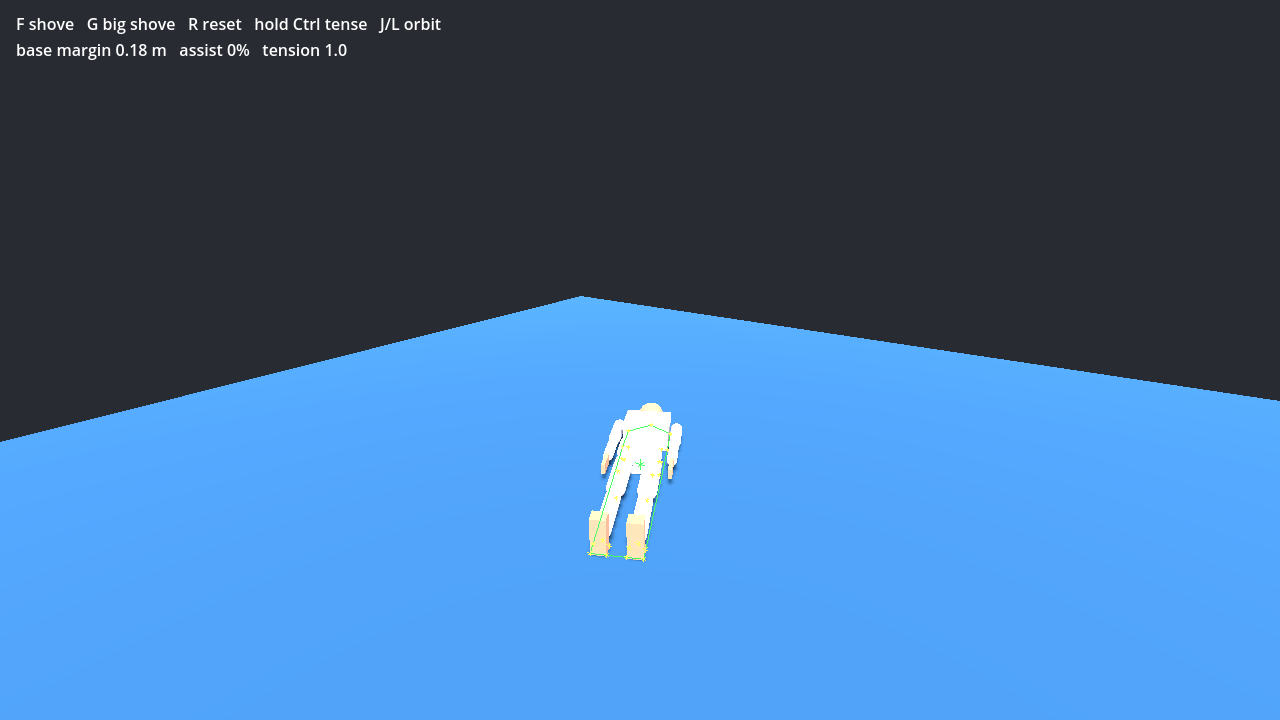
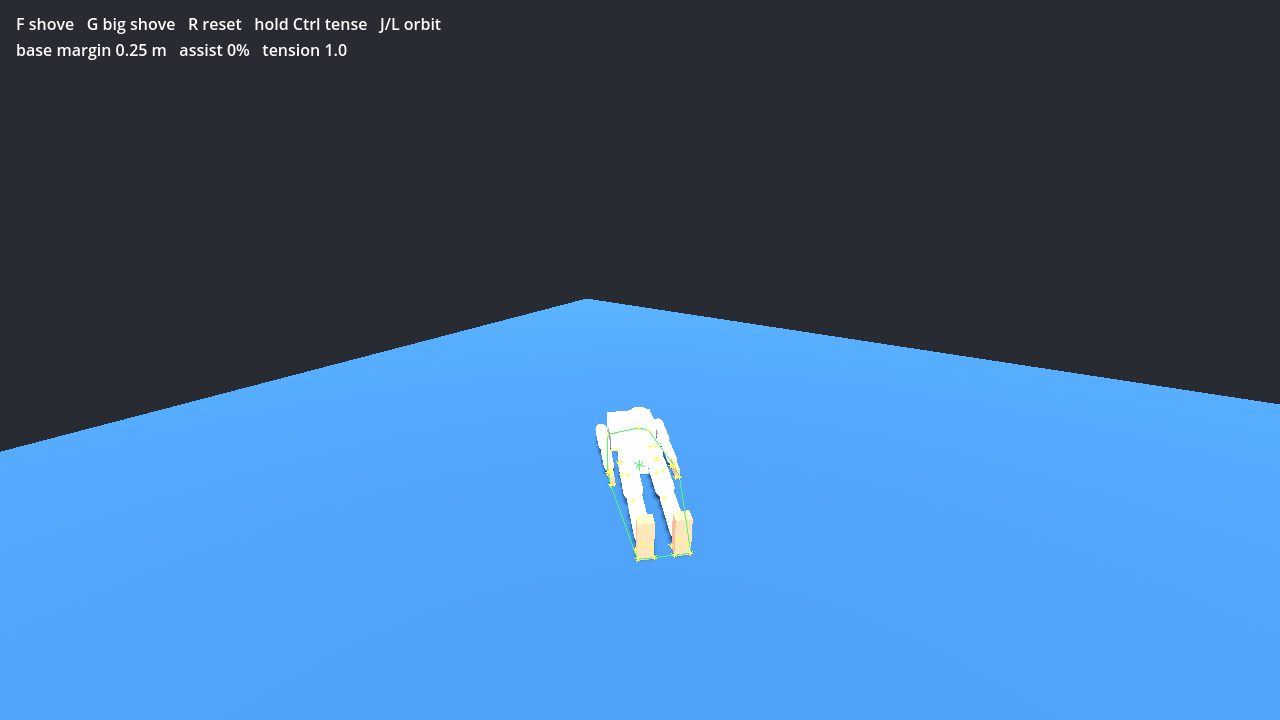
Make the fighter go floppy when it falls
Once the balance assist gives up, joint motor strength fades to
floppy_strength (12%) at go_limp_rate, so the fighter flops instead of
falling like a stiff plank. Adds a headless check for it.

Claude-Session: https://claude.ai/code/session_01Jy71bxqx9RNqiZaQPBMJXq

diff --git a/README.md b/README.md
@@ -15,6 +15,8 @@ Godot 4.4+ with Jolt physics at 120 ticks per second.
 | Ctrl (hold) | Tense up: joint motors get 1.8x stronger |
 | J / L | Orbit the camera |
 
+When the balance assist gives up, the joints fade to `floppy_strength` (12%) so the fighter flops instead of falling like a plank.
+
 The overlay draws the center of mass (white cross), mat contacts (yellow) and the
 base polygon (green when balanced, red when the center of mass has left it).
 
